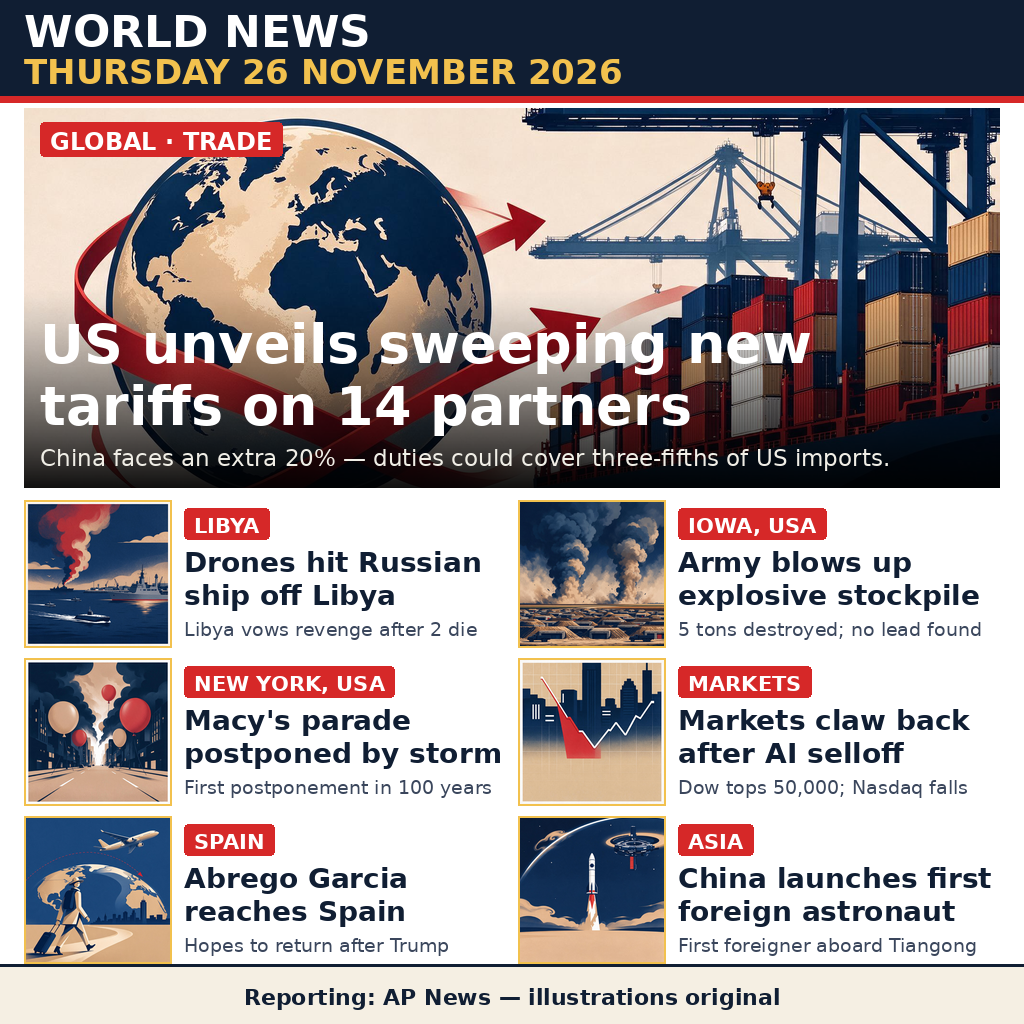
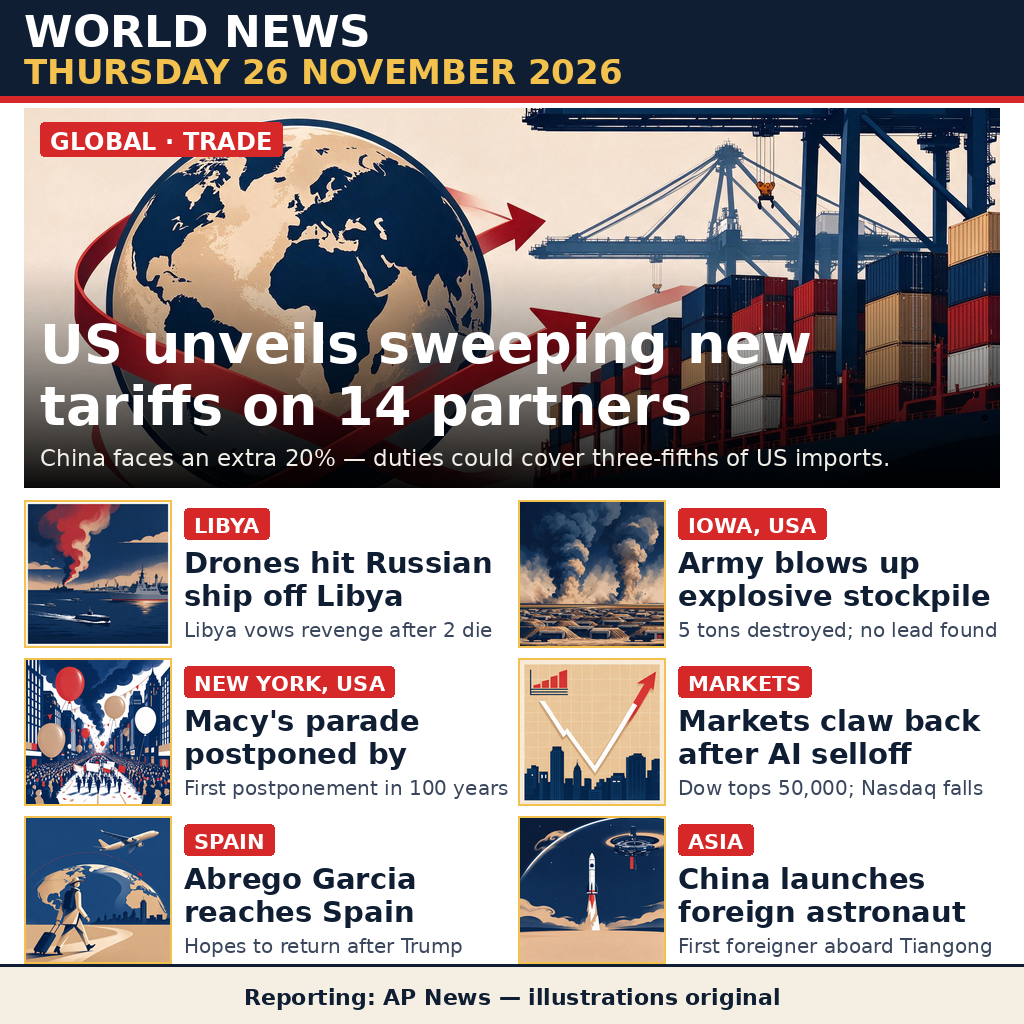
Ronde 2 rebuild: regenerate Macy's + Wall Street panels, deepen lead gradient, bump tile type

diff --git a/build/build_image.py b/build/build_image.py
@@ -1,18 +1,22 @@
 #!/usr/bin/env python3
 """Build the 1024x1024 front page (entry.png) for make.fun news-image-20261126.
 
-Round 2 rebuild (Pass 2 build): same 7 stories as Pass 1 (all dated
-25 Nov 2026 UTC — no 26 Nov UTC story was verifiable at collection time,
-~01:05 UTC 26 Nov; see SOURCES.md). Layout reworked after a senior-designer
-critique of the Pass 1 image:
+Round 2 rebuild (Pass 3 build, 26 Nov 2026 ~01:10 UTC): same 7 stories as
+Pass 1/Ronde 1 (all dated 25 Nov 2026 UTC — fresh AP check at ~01:08 UTC
+found ZERO stories dated 26 Nov UTC; latest AP summary 4:57 p.m. EST
+25 Nov). Layout reworked after a senior-designer critique of the Ronde 1
+image at 100% and 512px:
 
-  * lead panel shorter (380px) with a one-line deck under the headline, so
-    the lead explains itself instead of only naming the event;
-  * grid tiles taller (148px) with a one-line summary under each headline,
-    so every tile carries a fact, not just a headline;
-  * headline sizes bumped (lead 54, tiles 28) for legibility at 512px;
-  * masthead date bumped to 34px — the day is the judge's first check;
-  * tile geometry rebalanced (482px tiles, 12px gutters, 24px margins).
+  * Macy's + Wall Street panels regenerated with CanTrust (2 generations,
+    the round's max) — the two weakest tiles: old Macy's balloons read as
+    vague blobs with an empty street; old Wall Street's red wedge + thin
+    chart line did not read as a recovery. New Macy's: parade avenue,
+    giant balloons, marching band, crowds, storm clouds. New Wall Street:
+    bold white V-shaped chart line plunging then climbing to a big red
+    up-arrow over a navy skyline on a sand grid.
+  * lead gradient strip deepened (200->230px, alpha 238->245) so the
+    headline lifts off the busy globe/crane boundary;
+  * tile headline 28->29px, summary 19->20px for legibility at 512px.
 
 Offline, deterministic: same assets in -> same bytes out. No network, no
 clock, no randomness. Reads the seven original illustrations from assets/
@@ -144,9 +148,9 @@ def main():
     lead_img = Image.open(os.path.join(ASSETS, lead["id"] + ".jpg")).convert("RGB")
     lead_img = ImageOps.fit(lead_img, (lw, lh), Image.LANCZOS)
     lead_img = lead_img.convert("RGBA")
-    strip_h = 200
+    strip_h = 230
     black = Image.new("RGBA", (lw, strip_h), (0, 0, 0, 255))
-    lead_img.paste(black, (0, lh - strip_h), vertical_gradient((lw, strip_h), max_alpha=238))
+    lead_img.paste(black, (0, lh - strip_h), vertical_gradient((lw, strip_h), max_alpha=245))
     page.paste(lead_img.convert("RGB"), (lx, ly))
     draw = ImageDraw.Draw(page)
     chip(draw, lx + 16, ly + 14, lead["region"].upper() + " · " +
@@ -171,9 +175,9 @@ def main():
     gx, gy = 24, 500
     tile_w, tile_h, gutter_x, gutter_y = 482, 148, 12, 10
     img_s = 148
-    tile_font = load_font(28)
+    tile_font = load_font(29)
     chip_font = load_font(21)
-    sum_font = load_font(19, bold=False)
+    sum_font = load_font(20, bold=False)
     for i, story in enumerate(rest):
         col, row = i % 2, i // 2
         tx = gx + col * (tile_w + gutter_x)
